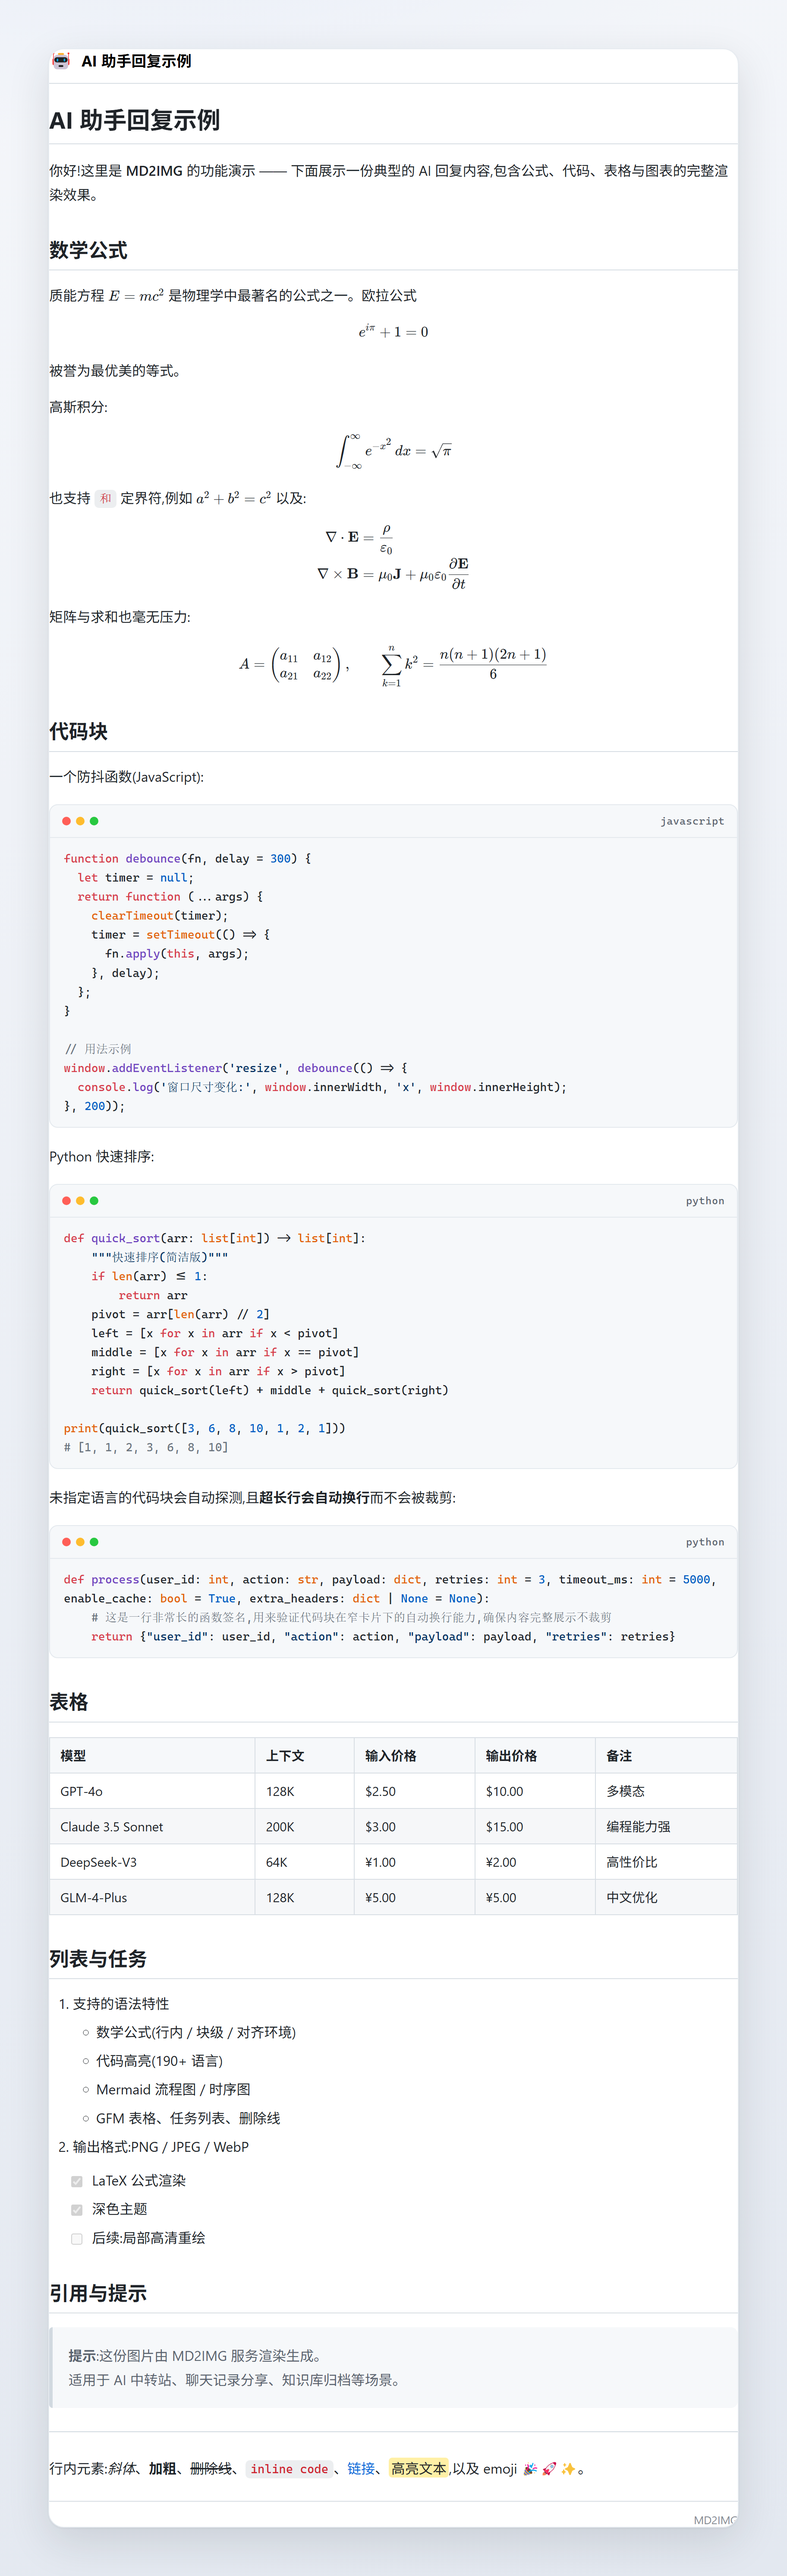
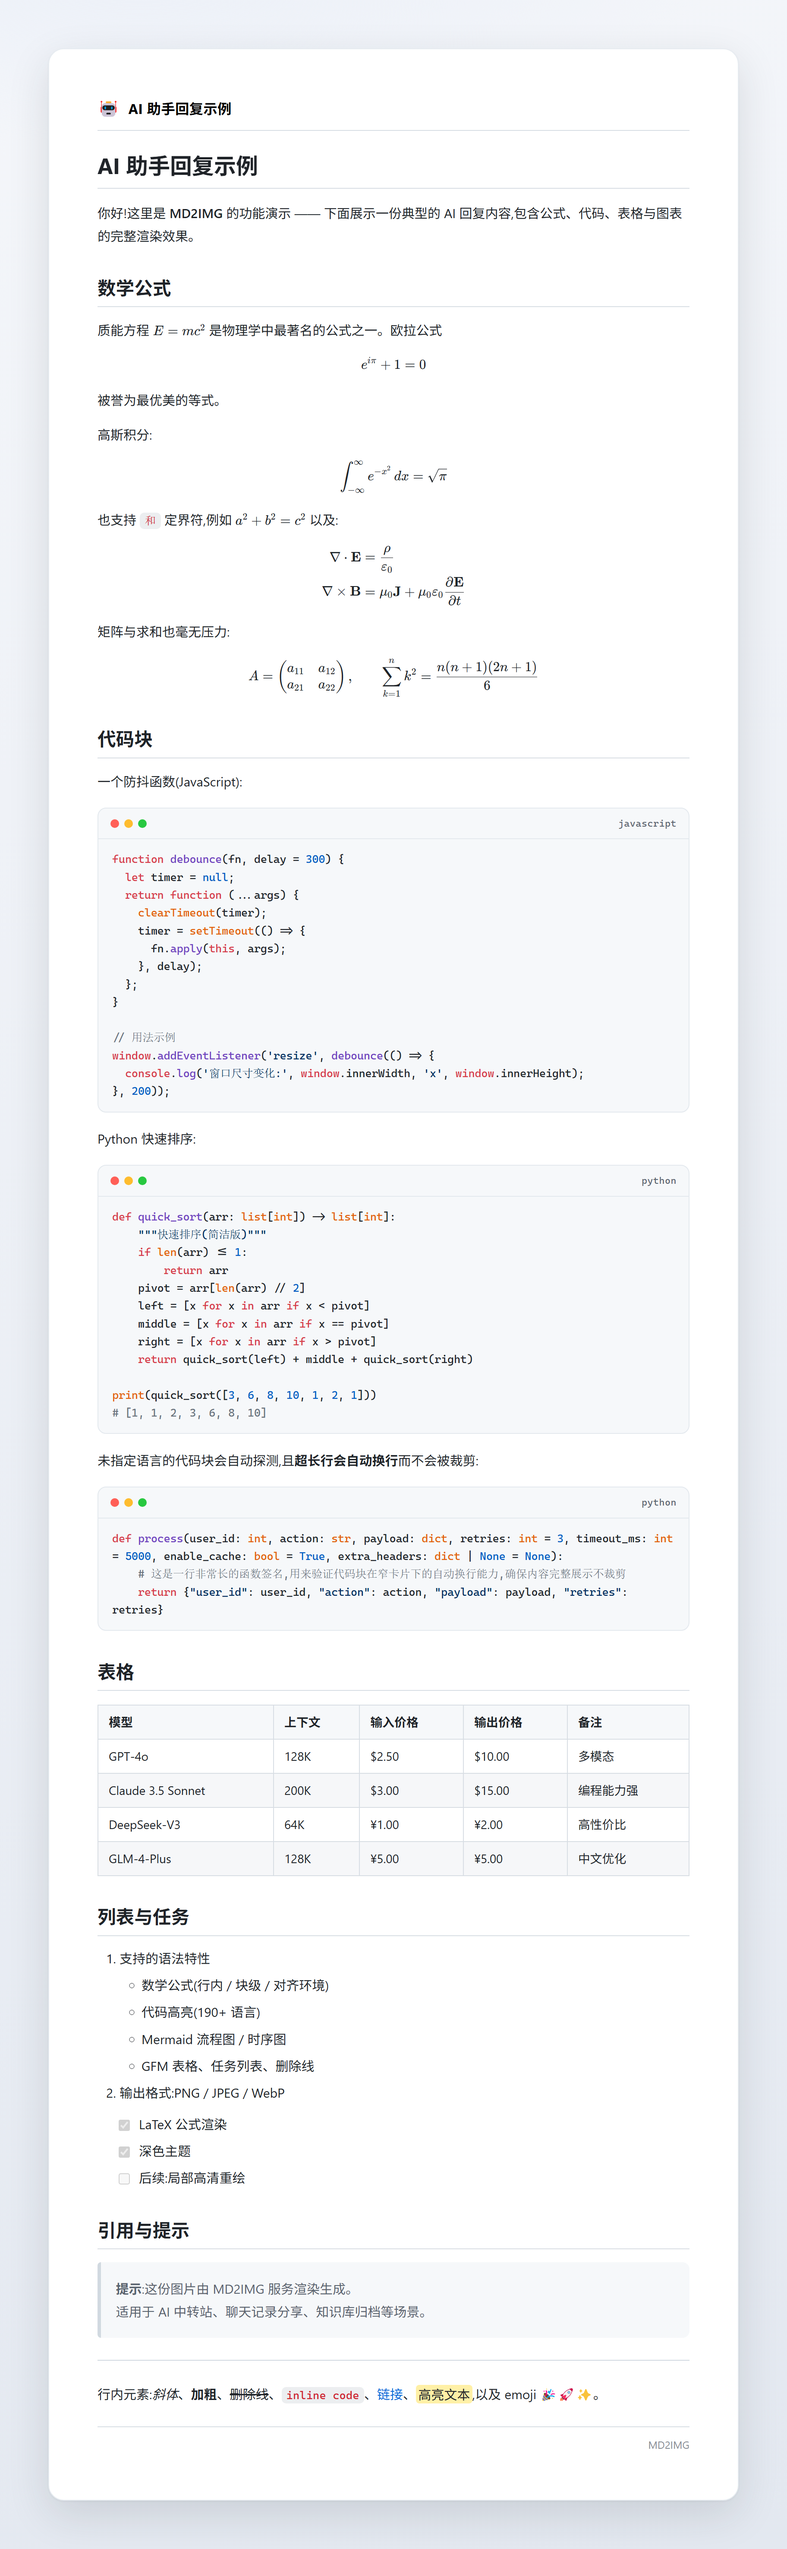
fix: 修复 padding/fontSize 参数未注入模板的问题,默认内边距 40→56px
- buildPage 丢失 --pad 与 font-size 内联变量,导致卡片实际 padding 为 0、文字贴边
- 默认 padding 提升至 56px(参考反馈),fontSize 参数恢复生效
- 更新 README 示例图与参数表

diff --git a/src/template.js b/src/template.js
@@ -397,7 +397,7 @@ export function buildPage({ bodyHtml, opts, hasMermaid }) {
 ${head}
 </head>
 <body>
-<div id="capture" class="frame-${frame} ${theme}" style="width:${widthCss};${bgColorStyle}">
+<div id="capture" class="frame-${frame} ${theme}" style="width:${widthCss};font-size:${opts.fontSize}px;--pad:${opts.padding}px;${bgColorStyle}">
   <div class="card">
     ${titleBar}
     <div class="md-body">${bodyHtml}</div>

diff --git a/src/config.js b/src/config.js
@@ -87,7 +87,7 @@ export function normalizeOptions(input = {}) {
   o.width = pickInt('width', 800, 200, 3840);
   o.scale = pickInt('scale', 2, 1, 4);
   o.quality = pickInt('quality', 90, 10, 100);
-  o.padding = pickInt('padding', 40, 0, 200);
+  o.padding = pickInt('padding', 56, 0, 200);
   o.fontSize = pickInt('fontSize', 15, 10, 32);
   o.title = pickStr('title', '', 300);
   o.footer = pickStr('footer', '', 300);

diff --git a/README.md b/README.md
@@ -73,7 +73,7 @@ curl -X POST "http://localhost:8307/api/render?theme=dark&scale=2" \
 | `scale` | number | `2` | 清晰度倍率(1-4),2x 即 Retina |
 | `format` | string | `png` | `png` / `jpeg` / `webp` |
 | `quality` | number | `90` | JPEG/WebP 质量(10-100) |
-| `padding` | number | `40` | 卡片内边距(px) |
+| `padding` | number | `56` | 卡片内边距(px) |
 | `fontSize` | number | `15` | 正文字号(px) |
 | `title` | string | 空 | 顶部标题(🤖 前缀);Markdown 的 YAML frontmatter `title` 会自动填入 |
 | `footer` | string | 空 | 底部水印文字(右下角固定显示 MD2IMG) |
